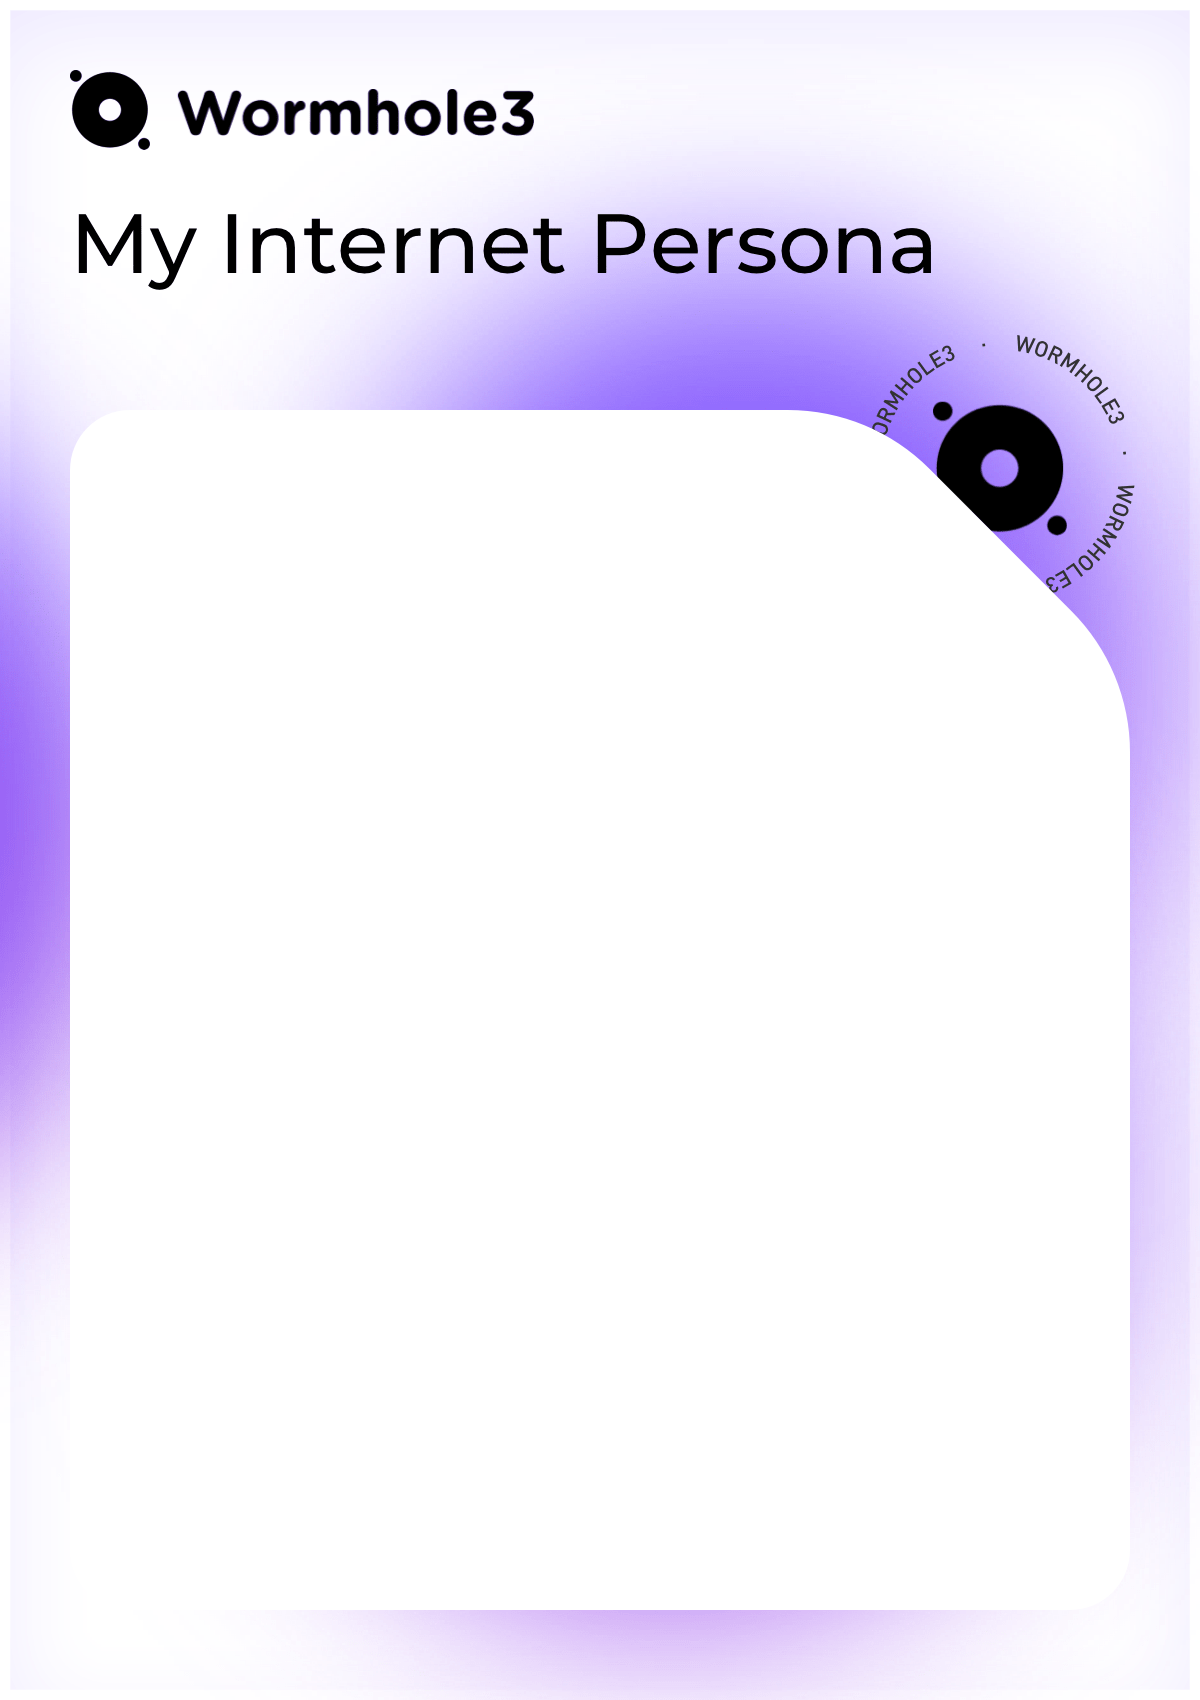
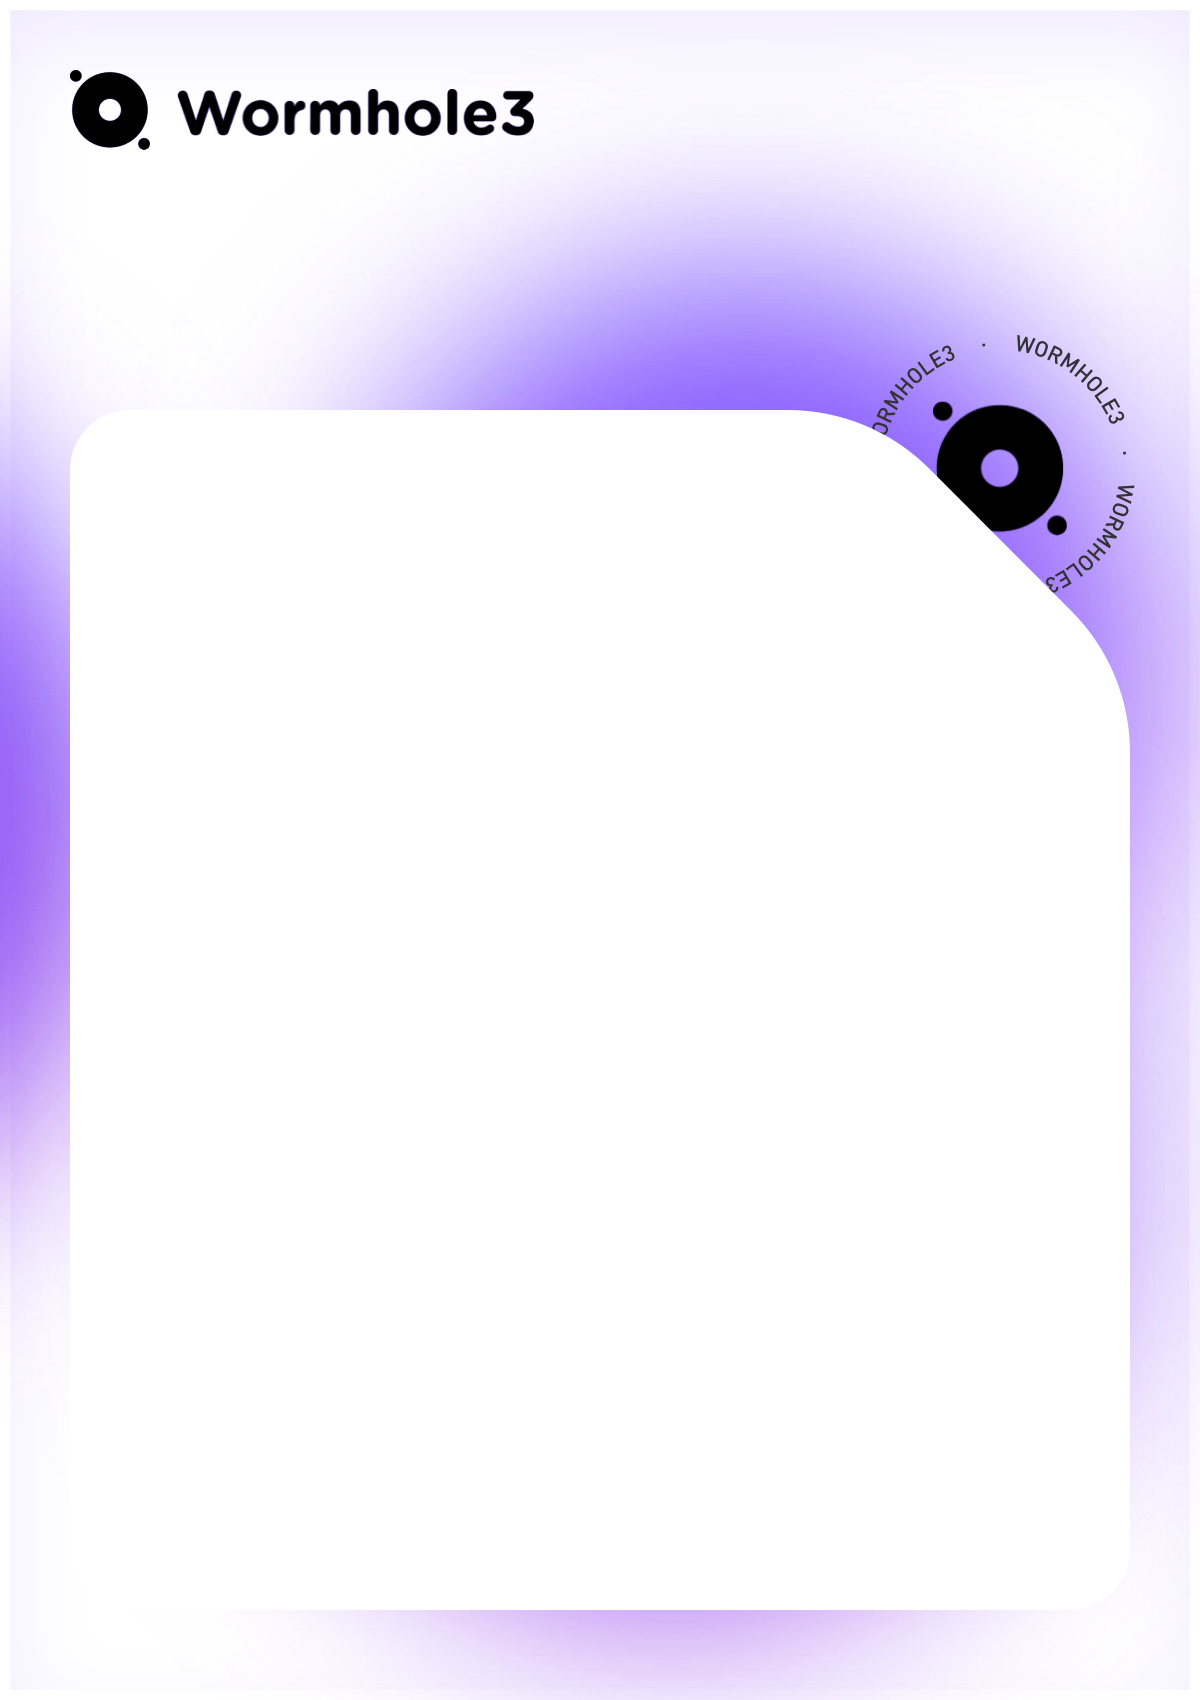
fix ui

Changed region(s): [[0.4933, 0.1247, 0.7708, 0.1871], [0.185, 0.1247, 0.4625, 0.1871], [0.0617, 0.1247, 0.1542, 0.1871]]

diff --git a/src/views/word-cloud/Index.vue b/src/views/word-cloud/Index.vue
@@ -7,7 +7,7 @@
              class="flex flex-col items-center sm:flex-row sm:py-100px 2xl:py-200px">
           <div class="w-full sm:w-3/5 flex flex-col justify-center items-start ">
             <div class="sm:h-3/4 w-full">
-              <div class=" text-2.5rem mb-2rem hidden sm:block whitespace-pre-line">
+              <div class=" text-2.5rem mb-2rem hidden sm:block whitespace-pre-line text-black">
                 {{imgUrl?$t('wordCloud.title'): $t('wordCloud.discoverPersona')}}
               </div>
               <div class="whitespace-pre-line text-12px leading-16px mt-15px sm:text-16px sm:leading-24px
@@ -36,6 +36,7 @@
           <div class="absolute -top-200/100 opacity-0">
             <div class="relative" id="share-img">
               <img class="w-700px min-w-500px" src="~@/assets/word-cloud-share.png" alt="">
+              <div class="text-44px absolute top-1/7 pl-1/15 text-black">{{$t('wordCloud.title')}}</div>
               <div class="absolute top-2/5 h-1/3 w-full px-1/10">
                 <img class="h-full mx-auto" :src="imgUrl" alt="">
               </div>
@@ -51,7 +52,7 @@
           </div>
           <div class="relative">
             <img class="w-350px" src="~@/assets/word-cloud-card.png" alt="">
-            <div class="text-24px absolute top-64px pl-20px">{{$t('wordCloud.title')}}</div>
+            <div class="text-24px absolute top-64px pl-20px text-black">{{$t('wordCloud.title')}}</div>
             <div class="absolute top-130px pl-20px pr-60px text-12px text-color33/10
                         whitespace-pre-line leading-16px transform scale-90">
               {{$t('wordCloud.wordDesc')}}
@@ -92,10 +93,8 @@ import { createKeypair } from '@/utils/tweet-nacl'
 import { notify } from "@/utils/notify";
 import Cookie from 'vue-cookies'
 import { sleep } from '@/utils/helper'
-import cardBg from '@/assets/word-cloud-card.png'
 import QrcodeVue from 'qrcode.vue'
 import domtoimage from 'dom-to-image';
-import demoImg from '@/assets/word-cloud-demo.png'
 
 export default {
   name: "Index",
@@ -103,16 +102,12 @@ export default {
   data() {
     return {
       loading: false,
-      imgUrl: demoImg,
+      imgUrl: null,
       wallet: null,
       pair: null,
       pendingAccount: null,
       mintLoading: false,
       shareLoading: false,
-      effectiveWordCount: 8,
-      words: ['你好', '爱情', '身份', '全部', '有意思', '我们', '你们', '查看', '没办法', '动作', '没有', 'I LOVE YOU', 'Hello', '有意思', '大家', '方式', '现在', '就是', '事实'],
-      colors: ['#3A6BFF', '#20AFFF', '#5F32FF', '#06B966', '#EF4848', '#FF5400', '#FFB500'],
-      effectiveWordColor: '#999999',
       qrCodeUrl: 'https://alpha.wormhole3.io/'
     }
   },
@@ -242,17 +237,6 @@ export default {
 
       }
     },
-    setWordsStyle() {
-      this.effectiveWordColor = this.colors[Math.floor(Math.random()*7)]
-      let initSize = 6
-      this.words = this.words.map((item) => {
-        if(initSize<=1) return [item, 1]
-        return [item, initSize-=1]
-      })
-    },
-    getWordColor(word, index) {
-      return index < this.effectiveWordCount?this.effectiveWordColor: '#999999'
-    },
     onDownload() {
       const node = document.getElementById('share-img');
       this.qrCodeUrl = `https://alpha.wormhole3.io/word-cloud${this.getAccountInfo ? ('?&referee=' + this.getAccountInfo.twitterId) : ''}`
@@ -291,7 +275,6 @@ export default {
     if (this.getAccountInfo) {
       this.imgUrl = this.getAccountInfo.wordCloudUrl
     }
-    this.setWordsStyle()
   },
 }
 </script>

diff --git a/src/views/post/PostsIndex.vue b/src/views/post/PostsIndex.vue
@@ -111,6 +111,14 @@
 
       </van-pull-refresh>
     </div>
+    <router-link to="/word-cloud"
+                 class="flex items-center justify-center
+                              h-44px w-44px min-w-44px xl:w-2.8rem xl:min-w-2.8rem xl:h-2.8rem
+                              mt-0.5rem c-text-bold fixed sm:bottom-2rem
+                              right-1.5rem sm:right-2.5rem xl:right-2.2rem z-9999"
+                 :class="scroll>200?'bottom-10rem':'bottom-6rem'">
+      <img class="w-full" src="~@/assets/word-cloud-entrance.png" alt="">
+    </router-link>
     <!-- back top  -->
     <button v-show="scroll>200"
             @click="$refs.postPageRef.scrollTo({top: 0, behavior: 'smooth'})"

diff --git a/src/App.vue b/src/App.vue
@@ -681,7 +681,7 @@ export default {
   width: 160px;
 }
 .word-cloud {
-  background-image: linear-gradient(180deg, #7600E2 0%, #0D1117 57%)!important;
+  background-image: linear-gradient(180deg, #7600E2 0%, #FCFCFF 57%)!important;
   .c-page-header {
     border-color: rgba(132, 131, 145, 0.3)!important;
     position: fixed;
